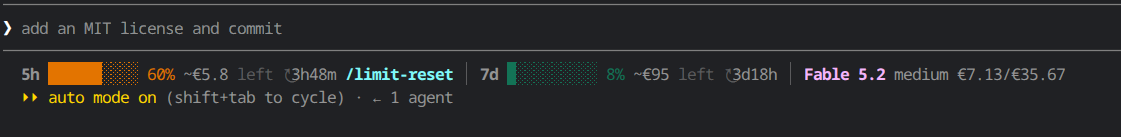
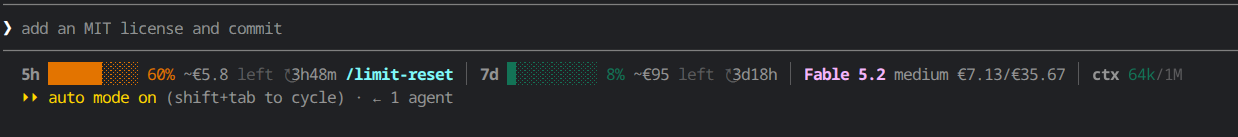
update doc img

Changed region(s): [[0.0, 0.438, 0.9679, 0.6423], [0.0, 0.6423, 0.4059, 0.7883], [0.0, 0.146, 0.2498, 0.2628]]

diff --git a/README.md b/README.md
@@ -2,7 +2,7 @@
 
 A one-line status line for [Claude Code](https://code.claude.com/docs/en/statusline) that shows how much of your plan's usage limits is left, in percent and euro, what the selected model costs, and how full its context window is.
 
-![The status line in Claude Code: 5-hour and 7-day usage bars with euro left and time to reset, then model, effort and price](res/claude-code-cli-statusline.png)
+![The status line in Claude Code: 5-hour and 7-day usage bars with euro left and time to reset, then model, effort, price and context used of the 1M context window](res/claude-code-cli-statusline.png)
 
 ```
 5h ███░░░░░░░ 33% ~€16 left ↻4h34m /limit-reset │ 7d █░░░░░░░░░ 5% ~€186 left ↻3d19h │ Fable 5.2 xhigh €7.13/€35.67 │ ctx 64k/1M
